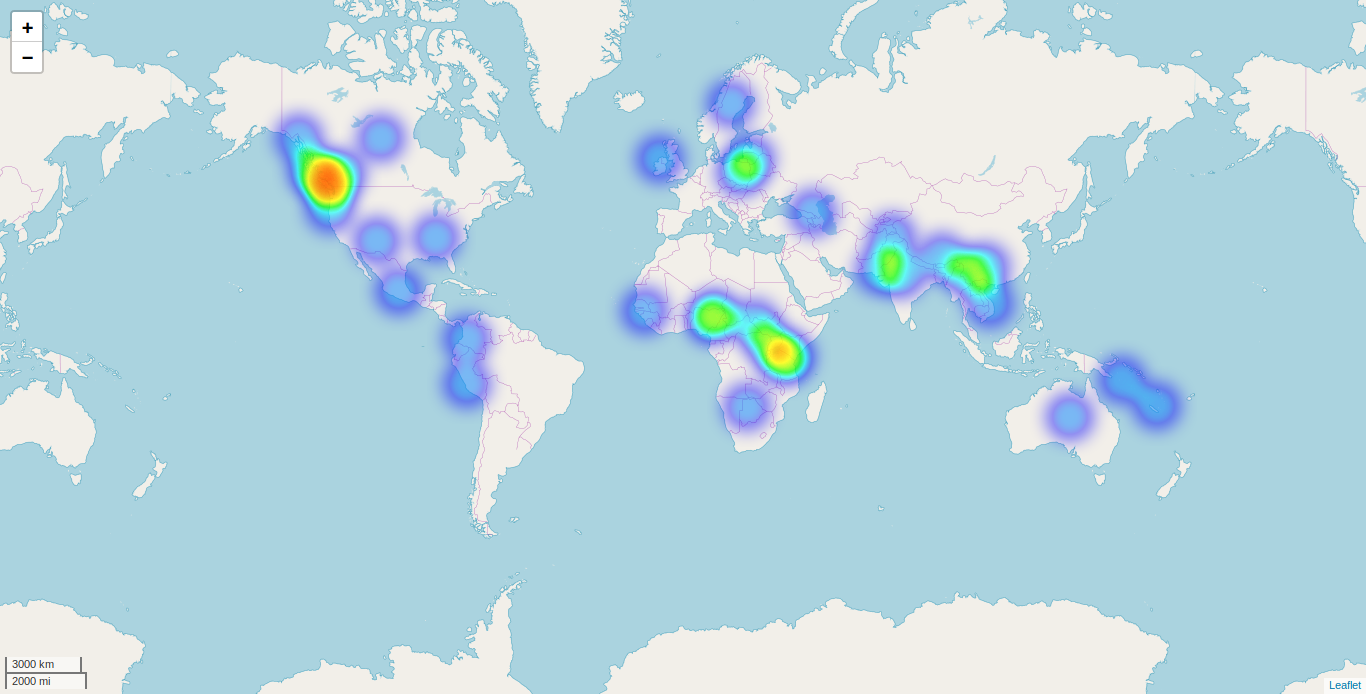
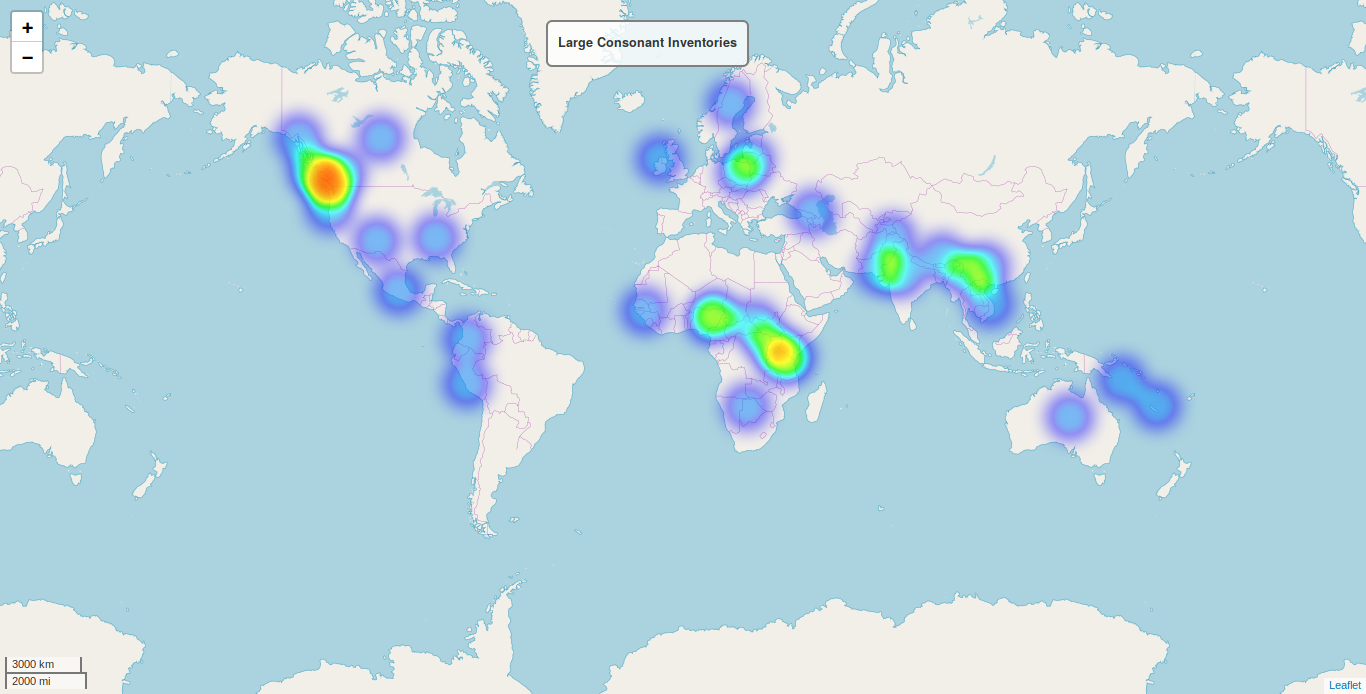
New examples

Changed region(s): [[0.3997, 0.0303, 0.5534, 0.121]]

diff --git a/work/SAILS.py b/work/SAILS.py
@@ -1,0 +1,15 @@
+import lingtypology
+
+#Get SAILS data for pages 'ICU3' and 'ICU4'
+sails = lingtypology.db_apis.Sails('ICU3', 'ICU4')
+df = sails.get_df()
+df.head().to_csv('tables/sails.csv')
+
+m = lingtypology.LingMap(df.language)
+m.add_features(df.ICU3_desc)
+#Use page description as legend title
+m.legend_title = sails.feature_descriptions('ICU3').Description.at[0]
+m.start_location = (9, -79)
+m.start_zoom = 5
+m.legend_position = 'bottomleft'
+m.save_static('images/sails.png')

diff --git a/work/PHOIBLE.py b/work/PHOIBLE.py
@@ -1,0 +1,12 @@
+import lingtypology
+
+#Get the table for UPSID dataset
+p = lingtypology.db_apis.Phoible(subset='SPA')
+df = p.get_df(strip_na=['tones'])
+df.head().to_csv('tables/phoible.csv')
+
+m = lingtypology.LingMap(df.language)
+m.colormap_colors = ('white', 'red')
+m.add_features(df.tones, numeric=True)
+m.legend_title = 'Tones'
+m.save_static('images/phoible.png')

diff --git a/work/wals_heatmap.py b/work/wals_heatmap.py
@@ -10,5 +10,7 @@ data.head().to_csv('tables/Wals1A.csv')
 m = lingtypology.LingMap()
 #Add heatmap from  the Wals data where the inventory is large
 m.add_heatmap(data[data._1A_desc == 'Large'].coordinates)
+#Add title
+m.title = 'Large Consonant Inventories'
 #Save as PNG
 m.save_static('images/WalsHeatmap.png')
